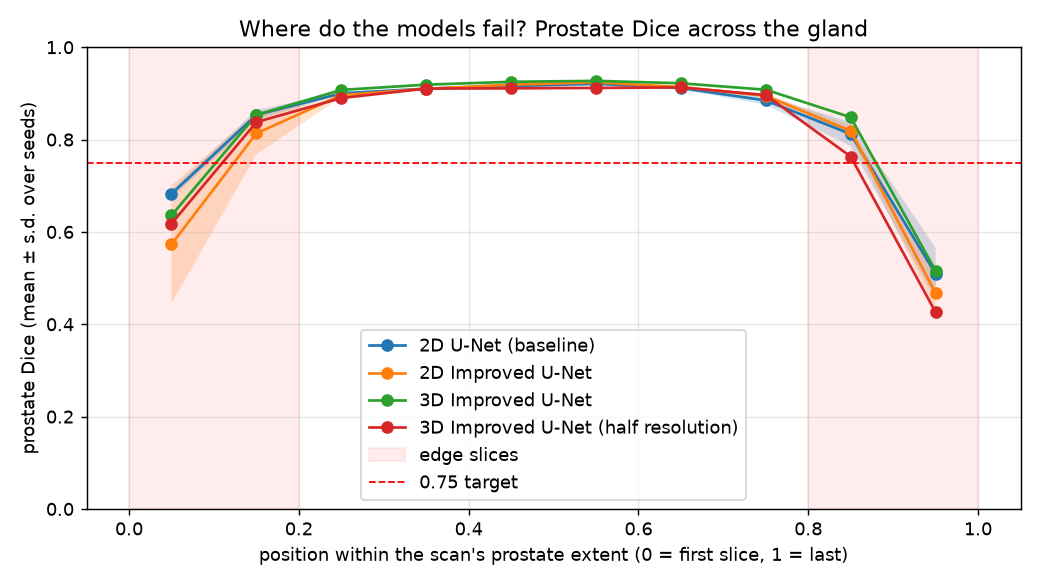
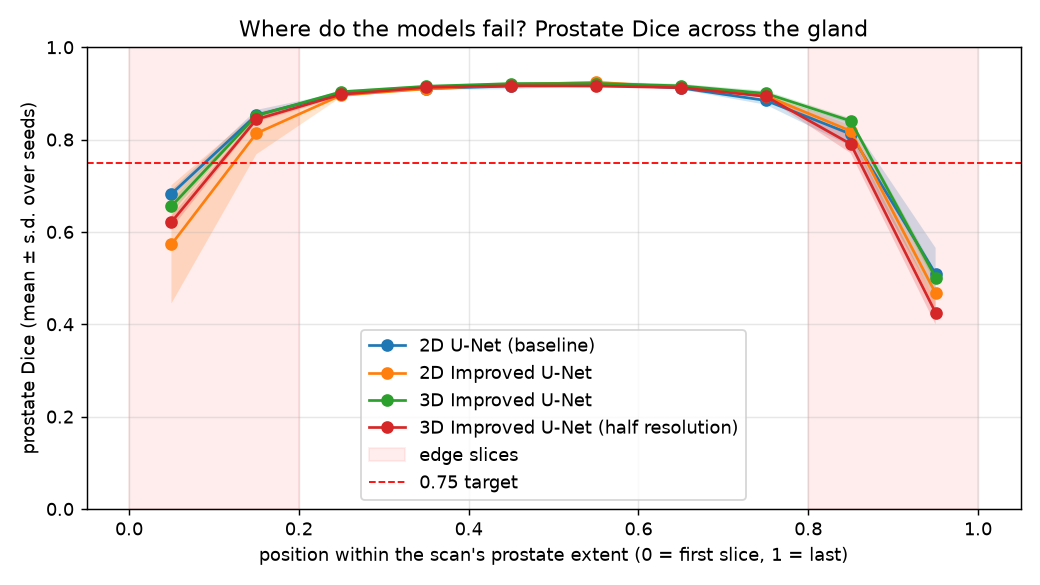
Update comparison to 3 seeds for all models (2D and 3D)

Changed region(s): [[0.2462, 0.1231, 0.9231, 0.5231], [0.1538, 0.2154, 0.2462, 0.4], [0.8923, 0.5231, 0.9231, 0.5538]]

diff --git a/recognition/ImprovedUNet_HipMRI_s4942544/images/comparison.md b/recognition/ImprovedUNet_HipMRI_s4942544/images/comparison.md
@@ -1,54 +1,54 @@
-Mean ± standard deviation over random seeds (2D U-Net (baseline): 3, 2D Improved U-Net: 3, 3D Improved U-Net: 1, 3D Improved U-Net (half resolution): 1), held-out test split (3 patients, 540 slices).
+Mean ± standard deviation over random seeds (2D U-Net (baseline): 3, 2D Improved U-Net: 3, 3D Improved U-Net: 3, 3D Improved U-Net (half resolution): 3), held-out test split (3 patients, 540 slices).
 
 **Prostate accuracy and clinical error modes**
 
 | Metric | 2D U-Net (baseline) | 2D Improved U-Net | 3D Improved U-Net | 3D Improved U-Net (half resolution) |
 |---|---|---|---|---|
-| Prostate Dice (all slices) | 0.873 ± 0.003 | 0.871 ± 0.008 | 0.885 | 0.867 |
-| Prostate IoU | 0.775 ± 0.005 | 0.771 ± 0.013 | 0.794 | 0.765 |
-| Prostate Dice: central slices | 0.906 ± 0.001 | 0.909 ± 0.004 | 0.918 | 0.904 |
-| Prostate Dice: edge slices | 0.741 ± 0.016 | 0.713 ± 0.028 | 0.753 | 0.702 |
-| Prostate boundary F-score (2 px) | 0.920 ± 0.006 | 0.915 ± 0.012 | 0.940 | 0.925 |
-| Under-contouring (% of prostate missed) | 12.2 ± 2.5 | 12.7 ± 0.7 | 8.3 | 11.0 |
-| Leak into bladder (% of prostate area) | 0.92 ± 0.38 | 1.17 ± 0.31 | 0.83 | 0.50 |
-| Leak into rectum (% of prostate area) | 0.26 ± 0.34 | 0.16 ± 0.04 | 0.01 | 0.00 |
-| False-positive prostate-free slices (%) | 0.6 ± 0.8 | 0.6 ± 0.3 | 0.6 | 0.6 |
+| Prostate Dice (all slices) | 0.873 ± 0.003 | 0.871 ± 0.008 | 0.881 ± 0.004 | 0.872 ± 0.005 |
+| Prostate IoU | 0.775 ± 0.005 | 0.771 ± 0.013 | 0.787 ± 0.006 | 0.773 ± 0.007 |
+| Prostate Dice: central slices | 0.906 ± 0.001 | 0.909 ± 0.004 | 0.913 ± 0.004 | 0.908 ± 0.003 |
+| Prostate Dice: edge slices | 0.741 ± 0.016 | 0.713 ± 0.028 | 0.749 ± 0.004 | 0.714 ± 0.012 |
+| Prostate boundary F-score (2 px) | 0.920 ± 0.006 | 0.915 ± 0.012 | 0.937 ± 0.003 | 0.927 ± 0.004 |
+| Under-contouring (% of prostate missed) | 12.2 ± 2.5 | 12.7 ± 0.7 | 9.0 ± 1.1 | 10.5 ± 1.2 |
+| Leak into bladder (% of prostate area) | 0.92 ± 0.38 | 1.17 ± 0.31 | 1.04 ± 0.39 | 0.49 ± 0.26 |
+| Leak into rectum (% of prostate area) | 0.26 ± 0.34 | 0.16 ± 0.04 | 0.03 ± 0.02 | 0.01 ± 0.02 |
+| False-positive prostate-free slices (%) | 0.6 ± 0.8 | 0.6 ± 0.3 | 0.7 ± 0.4 | 0.3 ± 0.3 |
 
 **Review-band rule (flag the slices around each end of the predicted prostate extent)**
 
 | Metric | 2D U-Net (baseline) | 2D Improved U-Net | 3D Improved U-Net | 3D Improved U-Net (half resolution) |
 |---|---|---|---|---|
-| Slices flagged for manual review (%) | 13.3 ± 0.0 | 13.3 ± 0.0 | 13.3 | 13.3 |
-| Missed prostate area caught by the flag (%) | 28.3 ± 4.4 | 36.0 ± 4.5 | 41.2 | 44.6 |
-| False-positive area caught by the flag (%) | 18.8 ± 1.0 | 16.6 ± 1.4 | 15.9 | 11.9 |
-| Whole-slice omissions (count) | 13.3 ± 2.3 | 17.7 ± 3.1 | 9.0 | 14.0 |
-| Whole-slice omissions caught (%) | 95.1 ± 4.3 | 92.6 ± 1.9 | 88.9 | 71.4 |
-| Prostate Dice on auto-drafted (unflagged) slices | 0.895 ± 0.002 | 0.895 ± 0.005 | 0.907 | 0.892 |
+| Slices flagged for manual review (%) | 13.3 ± 0.0 | 13.3 ± 0.0 | 13.3 ± 0.0 | 13.3 ± 0.0 |
+| Missed prostate area caught by the flag (%) | 28.3 ± 4.4 | 36.0 ± 4.5 | 40.6 ± 2.7 | 45.7 ± 4.6 |
+| False-positive area caught by the flag (%) | 18.8 ± 1.0 | 16.6 ± 1.4 | 13.9 ± 1.7 | 13.2 ± 2.5 |
+| Whole-slice omissions (count) | 13.3 ± 2.3 | 17.7 ± 3.1 | 11.0 ± 2.0 | 13.3 ± 3.1 |
+| Whole-slice omissions caught (%) | 95.1 ± 4.3 | 92.6 ± 1.9 | 87.7 ± 5.3 | 72.1 ± 2.6 |
+| Prostate Dice on auto-drafted (unflagged) slices | 0.895 ± 0.002 | 0.895 ± 0.005 | 0.902 ± 0.004 | 0.898 ± 0.006 |
 
 **Per-class Dice and IoU**
 
 | Metric | 2D U-Net (baseline) | 2D Improved U-Net | 3D Improved U-Net | 3D Improved U-Net (half resolution) |
 |---|---|---|---|---|
-| body Dice | 0.980 ± 0.000 | 0.981 ± 0.000 | 0.980 | 0.974 |
-| body IoU | 0.961 ± 0.001 | 0.963 ± 0.001 | 0.960 | 0.950 |
-| bone Dice | 0.938 ± 0.000 | 0.940 ± 0.001 | 0.935 | 0.919 |
-| bone IoU | 0.882 ± 0.001 | 0.887 ± 0.001 | 0.877 | 0.850 |
-| bladder Dice | 0.964 ± 0.002 | 0.964 ± 0.001 | 0.961 | 0.940 |
-| bladder IoU | 0.930 ± 0.004 | 0.931 ± 0.002 | 0.925 | 0.887 |
-| rectum Dice | 0.852 ± 0.010 | 0.858 ± 0.020 | 0.851 | 0.831 |
-| rectum IoU | 0.742 ± 0.016 | 0.752 ± 0.030 | 0.741 | 0.711 |
-| prostate Dice | 0.873 ± 0.003 | 0.871 ± 0.008 | 0.885 | 0.867 |
-| prostate IoU | 0.775 ± 0.005 | 0.771 ± 0.013 | 0.794 | 0.765 |
+| body Dice | 0.980 ± 0.000 | 0.981 ± 0.000 | 0.981 ± 0.001 | 0.974 ± 0.000 |
+| body IoU | 0.961 ± 0.001 | 0.963 ± 0.001 | 0.962 ± 0.003 | 0.950 ± 0.000 |
+| bone Dice | 0.938 ± 0.000 | 0.940 ± 0.001 | 0.938 ± 0.003 | 0.922 ± 0.004 |
+| bone IoU | 0.882 ± 0.001 | 0.887 ± 0.001 | 0.883 ± 0.006 | 0.855 ± 0.006 |
+| bladder Dice | 0.964 ± 0.002 | 0.964 ± 0.001 | 0.960 ± 0.001 | 0.946 ± 0.005 |
+| bladder IoU | 0.930 ± 0.004 | 0.931 ± 0.002 | 0.923 ± 0.002 | 0.897 ± 0.009 |
+| rectum Dice | 0.852 ± 0.010 | 0.858 ± 0.020 | 0.851 ± 0.003 | 0.833 ± 0.032 |
+| rectum IoU | 0.742 ± 0.016 | 0.752 ± 0.030 | 0.741 ± 0.005 | 0.714 ± 0.047 |
+| prostate Dice | 0.873 ± 0.003 | 0.871 ± 0.008 | 0.881 ± 0.004 | 0.872 ± 0.005 |
+| prostate IoU | 0.775 ± 0.005 | 0.771 ± 0.013 | 0.787 ± 0.006 | 0.773 ± 0.007 |
 
 **Resource profile**
 
 | Metric | 2D U-Net (baseline) | 2D Improved U-Net | 3D Improved U-Net | 3D Improved U-Net (half resolution) |
 |---|---|---|---|---|
-| Parameters (M) | 7.76 ± 0.00 | 3.19 ± 0.00 | 9.46 | 9.46 |
-| Peak training VRAM (GB) | 0.89 ± 0.00 | 0.67 ± 0.00 | 7.66 | 1.08 |
-| Training time per epoch (s) | 34.5 ± 0.1 | 38.3 ± 0.3 | 25.6 | 5.9 |
-| Total training time (min) | 29.2 ± 0.1 | 32.3 ± 0.2 | 43.5 | 20.9 |
-| Inference per slice (ms; 3D: volume time / slices) | 1.08 ± 0.00 | 0.94 ± 0.02 | 1.56 | 0.39 |
-| Inference per scan (s) | 0.07 ± 0.00 | 0.06 ± 0.00 | 0.09 | 0.02 |
-| Peak inference VRAM (GB) | 0.97 ± 0.00 | 0.59 ± 0.00 | 2.06 | 0.37 |
-| Latency for one input, batch of 1 (ms; 3D: one volume) | 2.62 ± 0.01 | 5.98 ± 0.03 | 55.33 | 7.59 |
+| Parameters (M) | 7.76 ± 0.00 | 3.19 ± 0.00 | 9.46 ± 0.00 | 9.46 ± 0.00 |
+| Peak training VRAM (GB) | 0.89 ± 0.00 | 0.67 ± 0.00 | 7.66 ± 0.00 | 1.08 ± 0.00 |
+| Training time per epoch (s) | 34.5 ± 0.1 | 38.3 ± 0.3 | 25.4 ± 0.2 | 5.8 ± 0.0 |
+| Total training time (min) | 29.2 ± 0.1 | 32.3 ± 0.2 | 43.2 ± 0.3 | 20.7 ± 0.2 |
+| Inference per slice (ms; 3D: volume time / slices) | 1.13 ± 0.11 | 0.92 ± 0.02 | 1.54 ± 0.03 | 0.40 ± 0.01 |
+| Inference per scan (s) | 0.07 ± 0.01 | 0.06 ± 0.00 | 0.09 ± 0.00 | 0.02 ± 0.00 |
+| Peak inference VRAM (GB) | 0.97 ± 0.00 | 0.59 ± 0.00 | 2.06 ± 0.00 | 0.37 ± 0.00 |
+| Latency for one input, batch of 1 (ms; 3D: one volume) | 2.62 ± 0.01 | 5.98 ± 0.03 | 55.18 ± 0.13 | 7.60 ± 0.01 |
